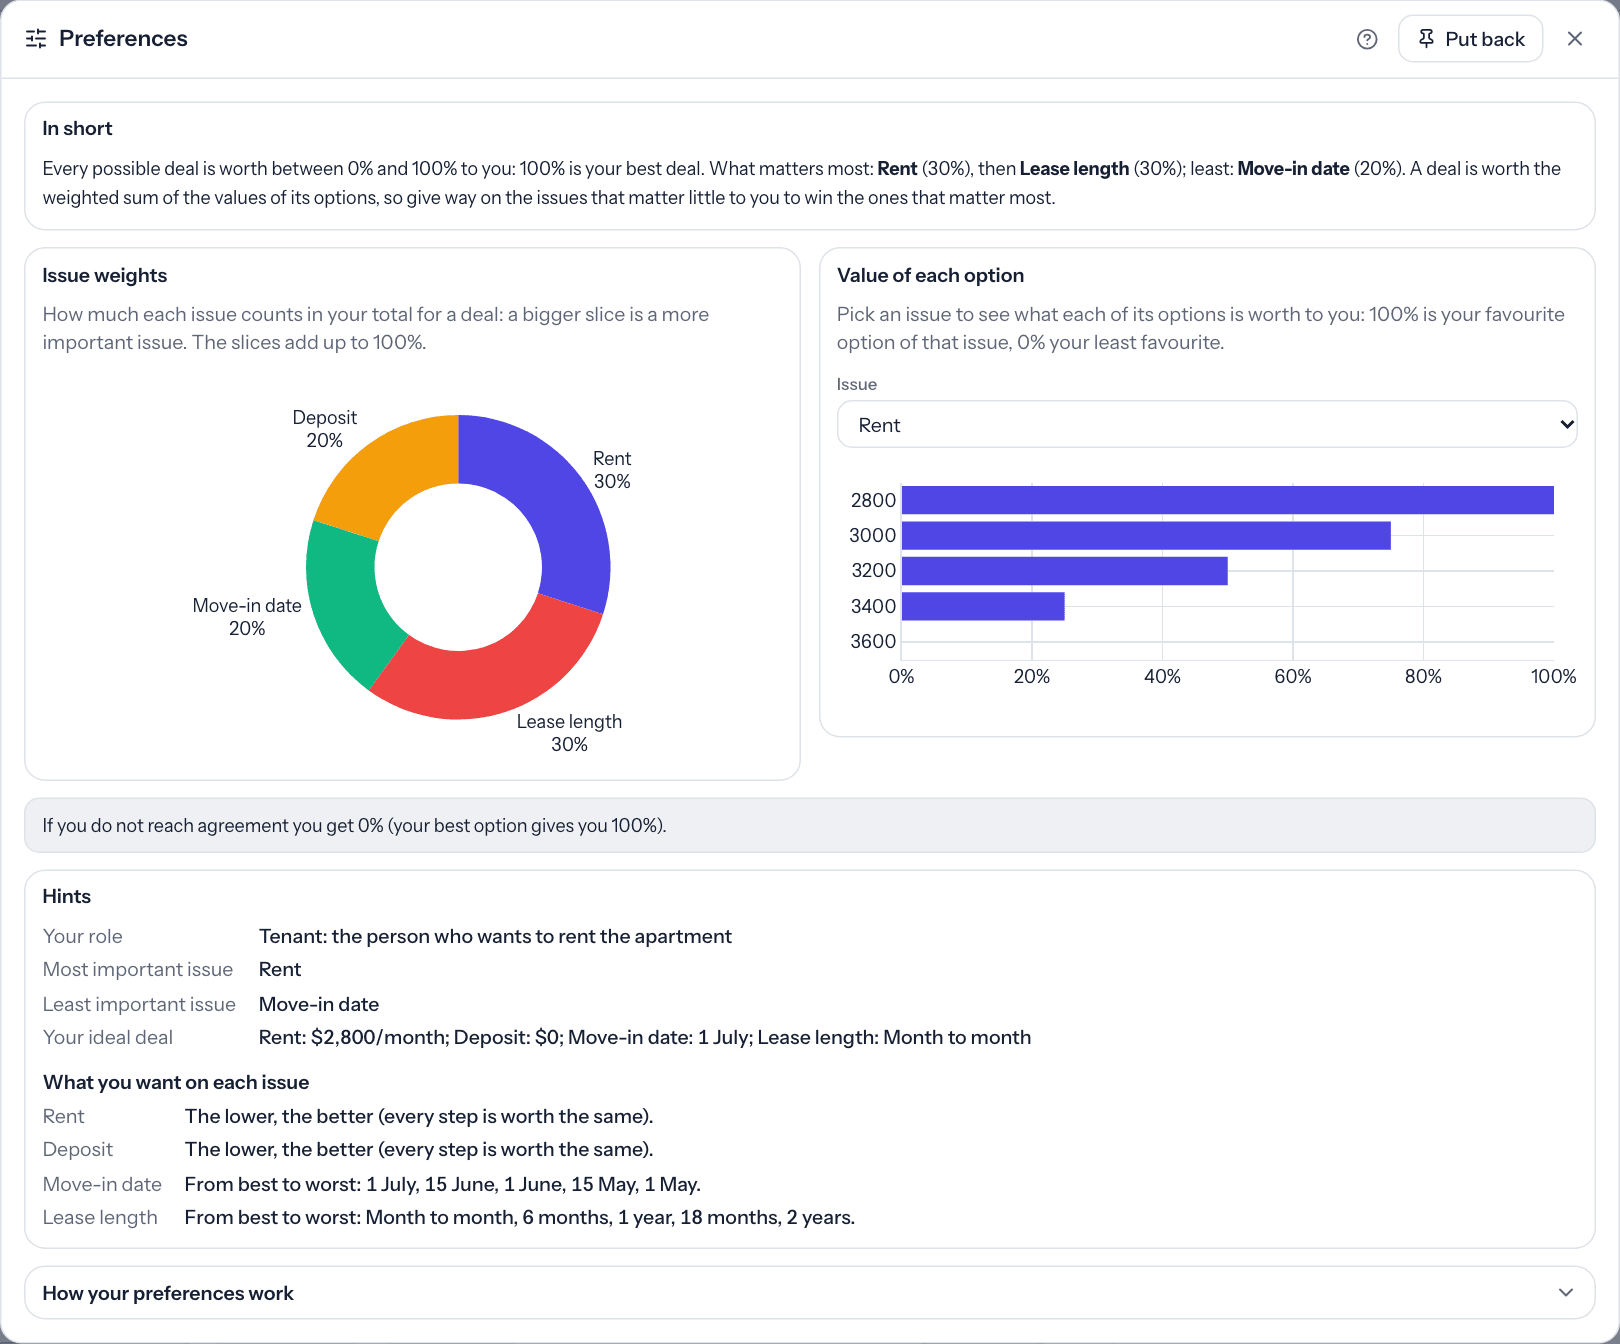
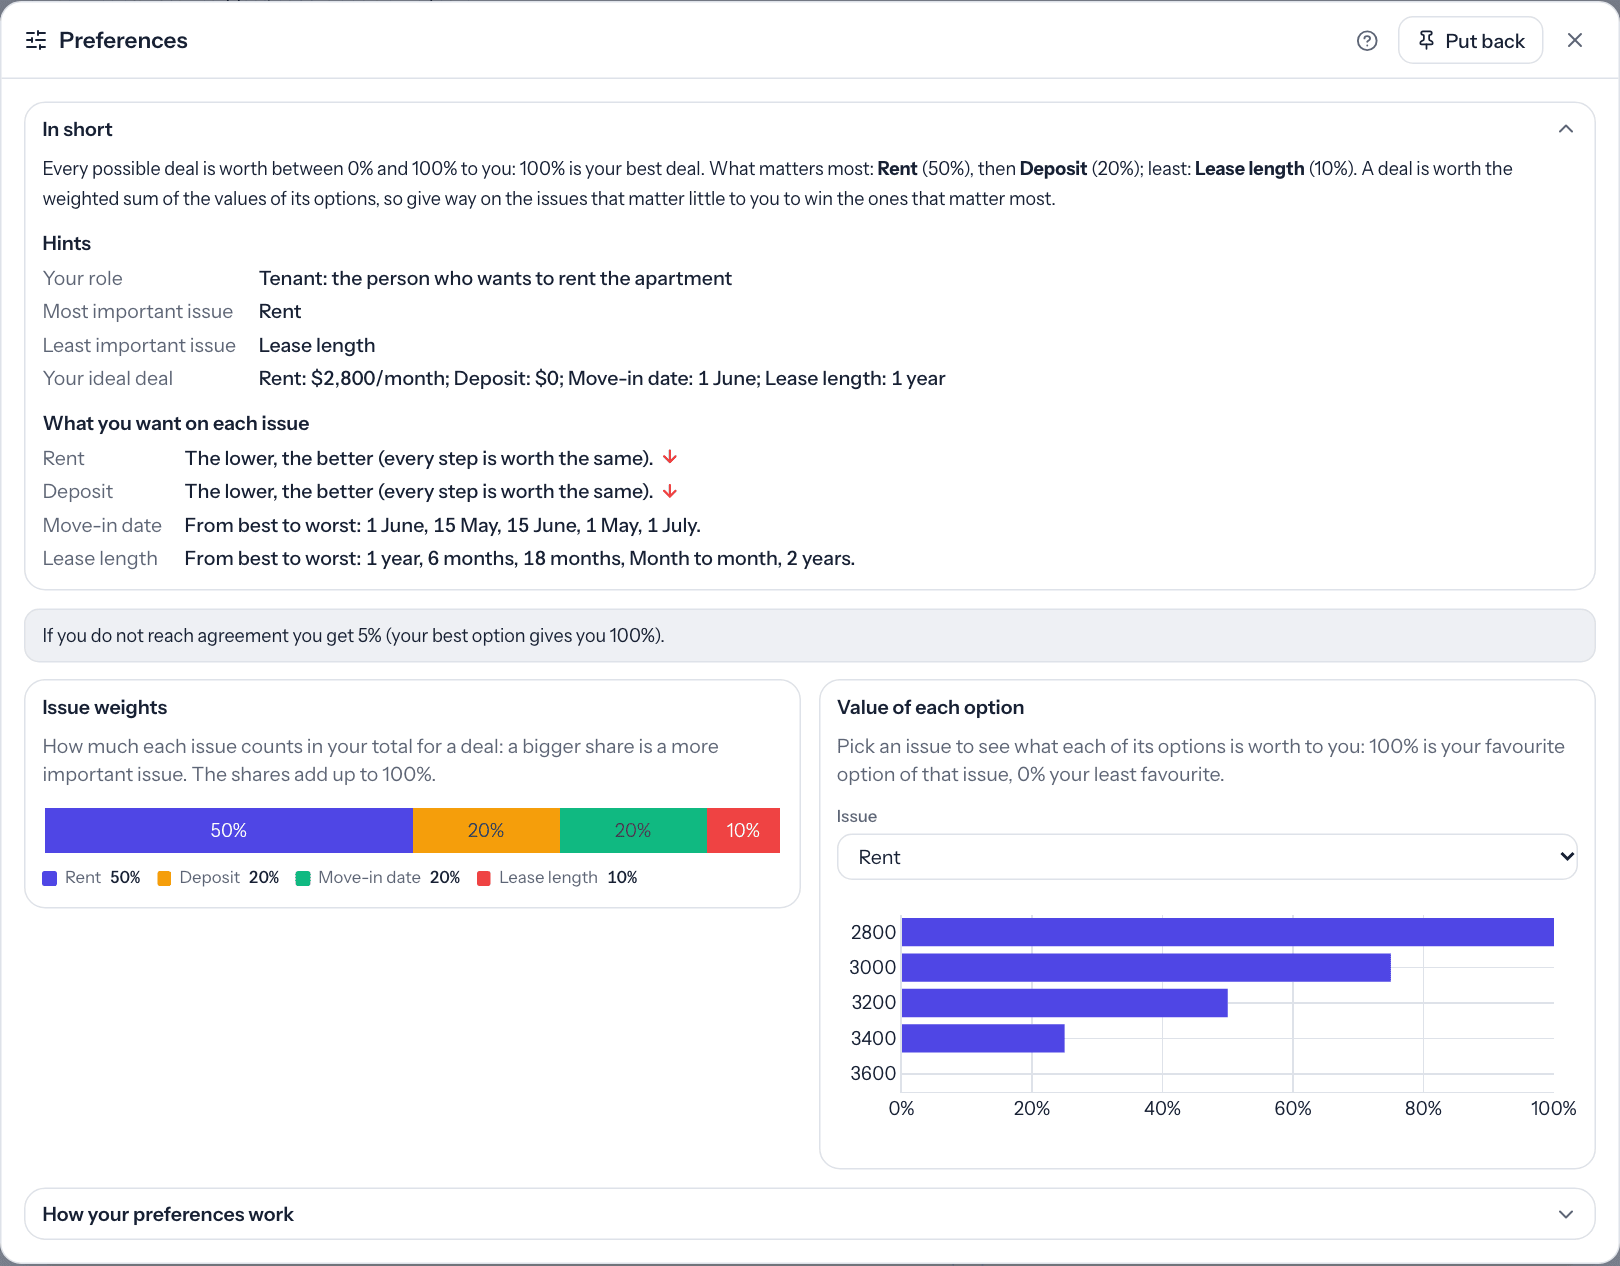
docs(preferences): the value on disagreement under In short; retake tool-preferences.png
Claude-Session: https://claude.ai/code/session_018CXUXaUZMyykhdiJa8ZW5i

diff --git a/docs/guide/preferences.md b/docs/guide/preferences.md
@@ -6,10 +6,12 @@ preferences in many ways, so HANI2 picks a *view* that fits the type of the
 utility function and falls back to a general view for anything it does not
 know.
 
-Every view shows the **value on disagreement** as one sentence under the
-charts ("If you do not reach agreement you get 10% (your best option gives you
-100%)."), and a short, plain-language explanation of how the total is worked
-out (collapsed at the bottom). The charts carry a one-line caption saying what
+Every view shows the **value on disagreement** as one sentence ("If you do
+not reach agreement you get 10% (your best option gives you 100%)."): in the
+participant's Preferences tool right under the *In short* card (so it stays in
+sight when the card is folded), elsewhere under the charts. Every view also has
+a short, plain-language explanation of how the total is worked out (collapsed at
+the bottom). The charts carry a one-line caption saying what
 they mean.
 
 The Preferences tool also shows, for every scenario:
@@ -17,7 +19,7 @@ The Preferences tool also shows, for every scenario:
 - **In short** (at the top; clicking its title folds it away, and it stays
   folded while the tool updates): the preferences in two or three sentences,
   such as the issues that matter most and least and their weights, followed by
-  the hints below.
+  the hints below. The value on disagreement follows directly under the card.
 - **Hints** (inside *In short*): the hints of the participant's role and, for
   every issue, what the participant wants in plain words. After each sentence
   an icon, as tall as the text, shows the direction at a glance: a green arrow

diff --git a/docs/guide/tools.md b/docs/guide/tools.md
@@ -107,10 +107,10 @@ made by `scripts/screenshots/make_screenshots.py` in the source repository.
 
 **Everyone, always (permanent).** Your preferences in the current scenario: on top, a collapsible
 *In short* card with a summary, your role's hints and an arrow per issue (up: the more, the better;
-down: the less, the better; meeting arrows: best at one value); then one thin bar (or, with
+down: the less, the better; meeting arrows: best at one value), and right under it your value on
+disagreement (what you get if there is no deal); then one thin bar (or, with
 `tools.weights_chart: donut`, a donut) of the issue weights (how much each issue matters to you), a bar chart (a line for many options) of what every option of the issue
-picked in **Issue** is worth to you, your value on disagreement (what you get if there is no deal)
-and a collapsible explanation of how a deal's value is computed from the two. The value of a deal is
+picked in **Issue** is worth to you and a collapsible explanation of how a deal's value is computed from the two. The value of a deal is
 the weighted sum of its options' values, so it is what the history, the offer panel and the other
 tools show as "worth to you".
 

diff --git a/docs/walkthroughs/han-basics.md b/docs/walkthroughs/han-basics.md
@@ -49,8 +49,8 @@ much you like each possible deal.
 - **Issue weights**: some issues matter more to you than others. A bigger slice of the ring is a
   more important issue, and the slices add up to 100%.
 - **Value of each option**: for one issue at a time, what each of its options is worth to you.
-- The **value on disagreement** is what you get if there is no deal at all, written under the
-  charts ("If you do not reach agreement you get ..."). A deal worth less than that is worse than
+- The **value on disagreement** is what you get if there is no deal at all, written right under
+  *In short* ("If you do not reach agreement you get ..."). A deal worth less than that is worse than
   no deal.
 
 The numbers are round on purpose (steps of 5% and 10%), so you can add them up in your head.

diff --git a/docs/changelog.md b/docs/changelog.md
@@ -2,6 +2,10 @@
 
 ## Unreleased
 
+- **Value on disagreement under *In short*.** The participant's Preferences tool now shows the
+  sentence "If you do not reach agreement you get 10% (your best option gives you 100%)." right under
+  the *In short* card, where it stays in sight also when the card is folded, instead of below the
+  charts, where it was easily missed. See [Showing preferences](guide/preferences.md).
 - **Preferences: weights as a bar, side by side, normalized or raw.** The issue weights are now
   drawn as one thin coloured bar by default (`tools.weights_chart: bar`; `donut` brings the ring
   back). In a tool pane pinned outside the full view (the simple view) the weights and the value of
